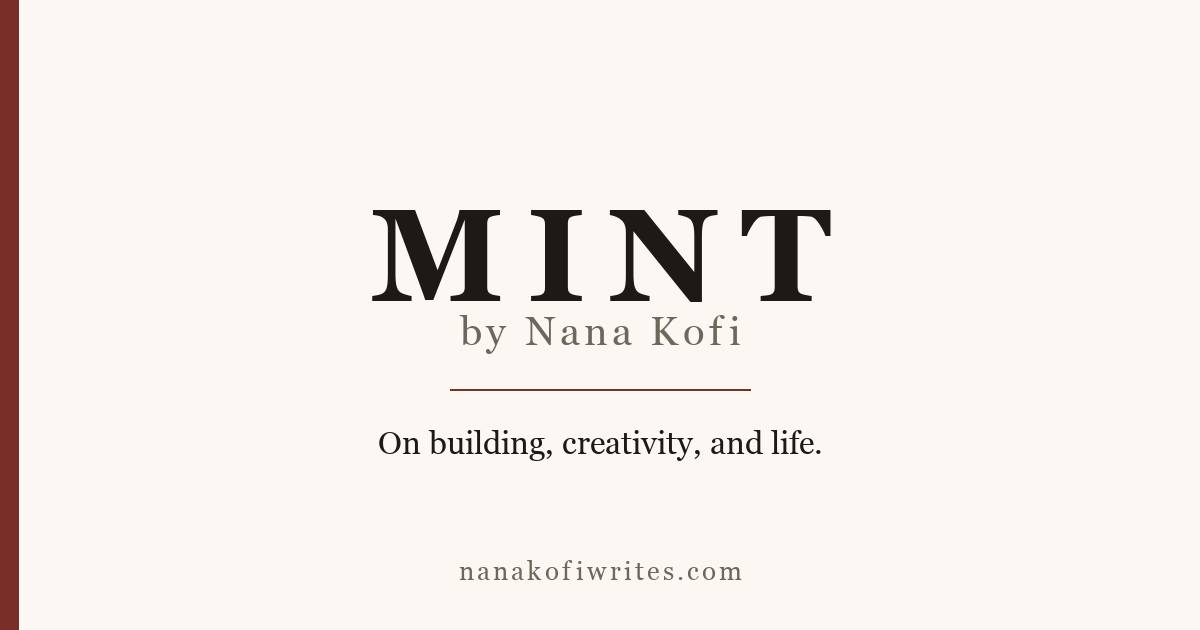
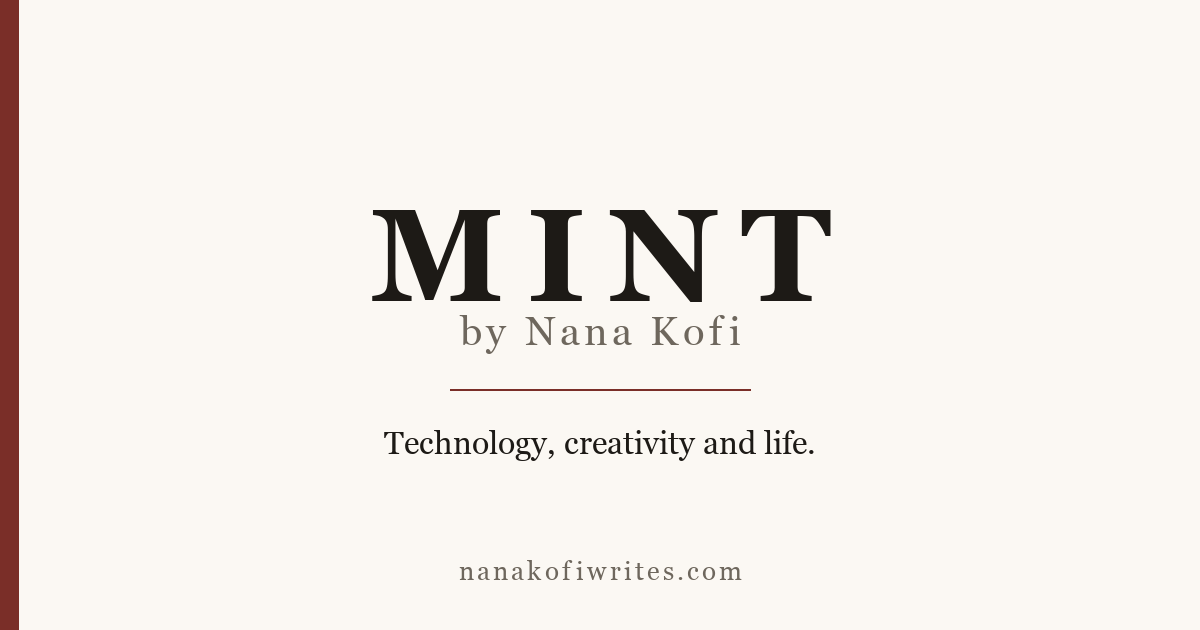
fix: every post is a page bundle, so the editor stops losing photographs
The editor was told to save posts as slug.md while putting uploaded images in a
sibling folder, which Hugo silently ignores. That is exactly how two of the
three photographs in the first editor-written post failed to publish, and every
future post would have hit it.

All 19 posts are now Hugo page bundles, slug/index.md with photographs beside
them, and the editor is configured to create them that way with media saved
next to the entry.

Permalinks are untouched, which is the point: every post carries its own url:
in front matter, so moving the file changes nothing. Verified by diffing all 18
declared permalinks before and after, and confirming each still generates at
exactly its own path.

Also changes the tagline to 'Technology, creativity and life.' across the site
config, the manifest and the generated share card. The old wording read like a
book subtitle.

Changed region(s): [[0.3083, 0.6635, 0.6783, 0.754]]

diff --git a/scripts/make-brand-assets.py b/scripts/make-brand-assets.py
@@ -79,7 +79,7 @@ def share_card():
     centre(d, (w / 2, h / 2 + 16), "by Nana Kofi", font(SERIF, 40), MUTED, tracking=4)
 
     d.line([(w / 2 - 150, h / 2 + 74), (w / 2 + 150, h / 2 + 74)], fill=ACCENT, width=2)
-    centre(d, (w / 2, h / 2 + 128), "On building, creativity, and life.", font(SERIF, 32), INK)
+    centre(d, (w / 2, h / 2 + 128), "Technology, creativity and life.", font(SERIF, 32), INK)
     centre(d, (w / 2, h - 62), "nanakofiwrites.com", font(SERIF, 26), MUTED, tracking=3)
     return img
 
